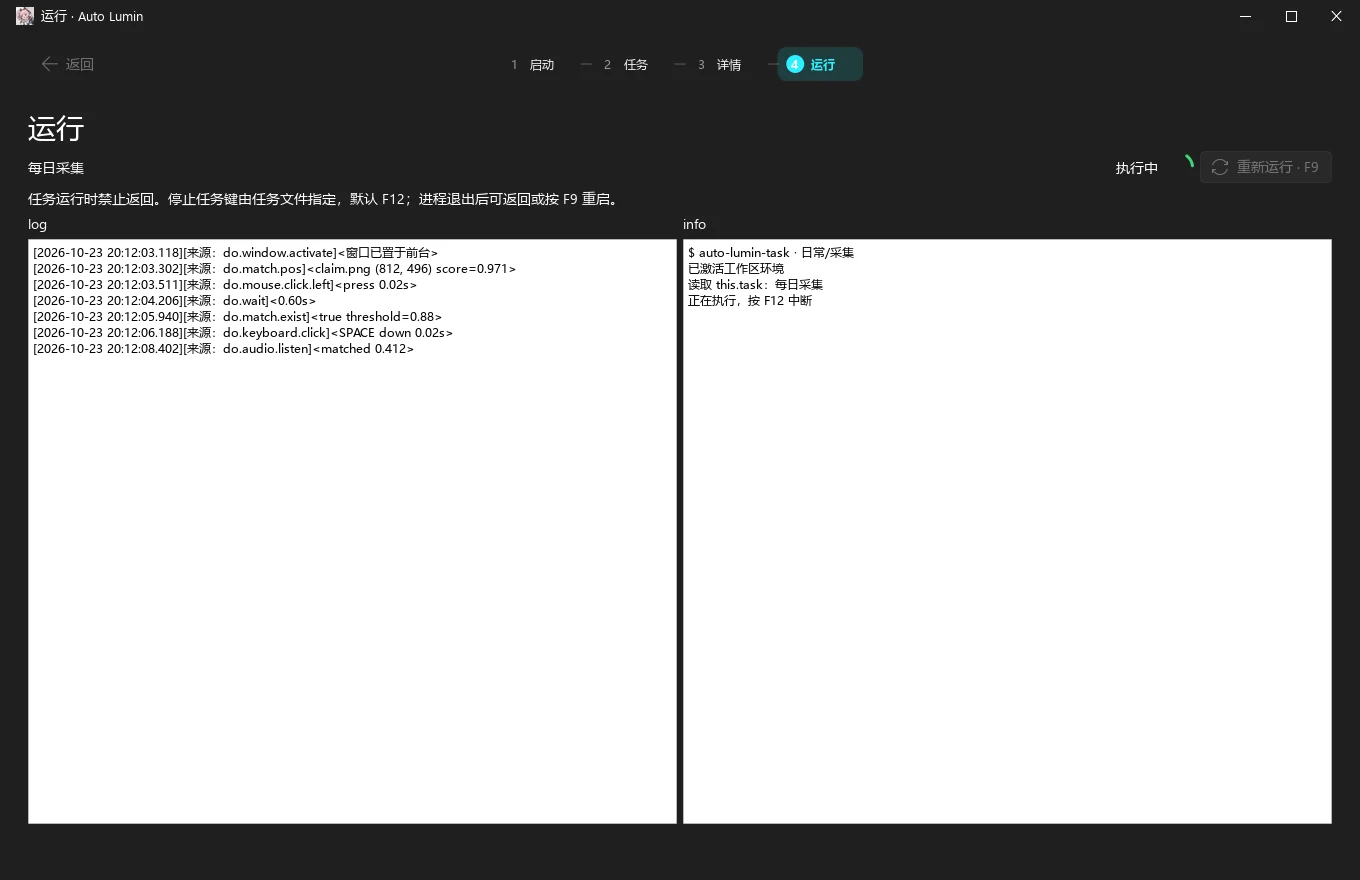
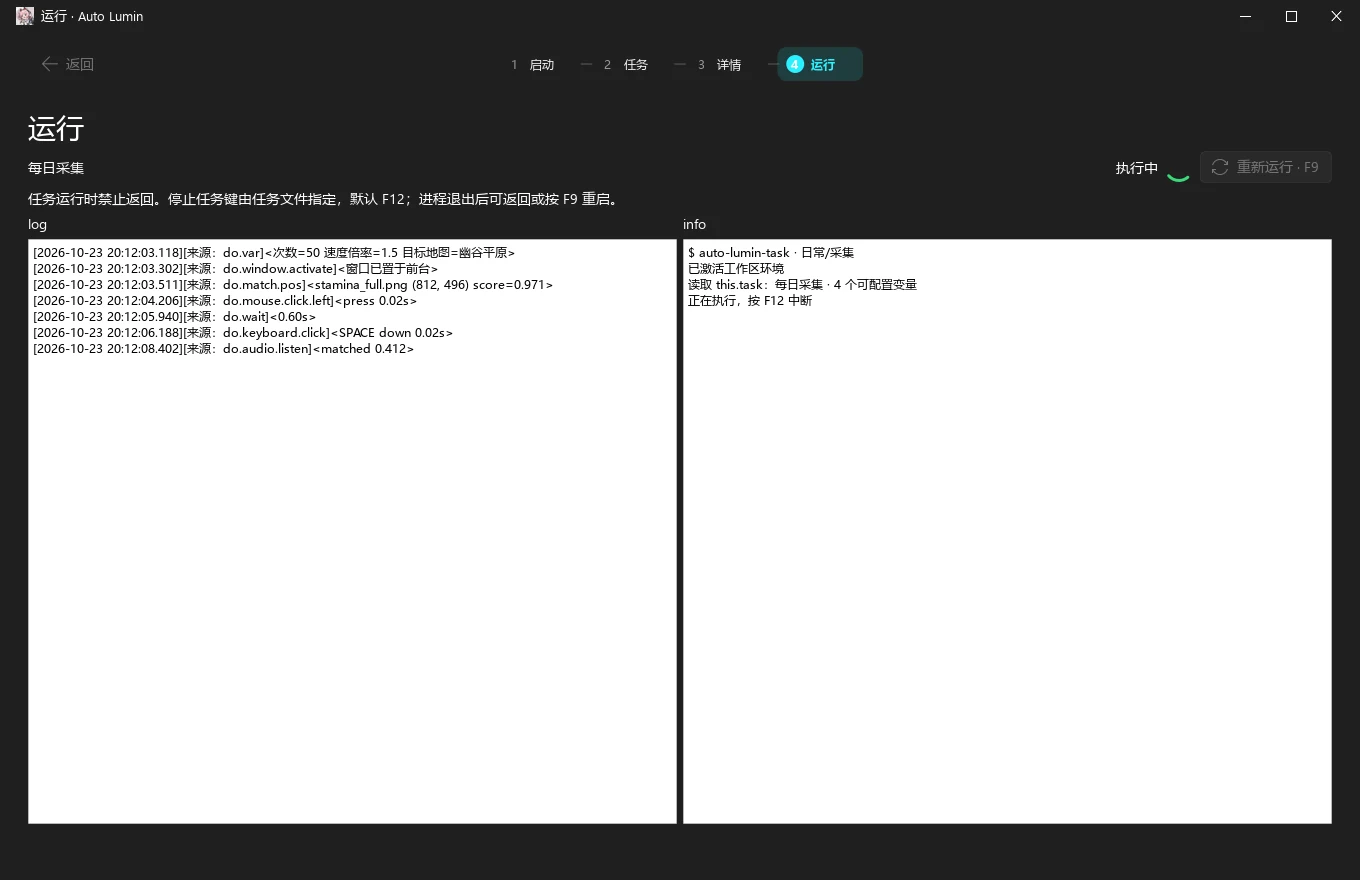
docs: 站点更新到启动器 1.1
- 首页、能力卡片、部署说明与 FAQ 同步 1.1：新增任务变量配置与
  任务包一键导入，详情页改为折叠卡片布局
- this.task 示例补 var 节，run.py 示例改用 do.var() 读取配置值
- 用 1.1 启动器重新生成四页明暗主题截图，替换 1.0 旧图
- 修复画廊视图快速切换时标题与截图错配的异步竞态

Changed region(s): [[0.1853, 0.2761, 0.4015, 0.3682], [0.6176, 0.3068, 0.6794, 0.3375]]

diff --git a/index.html b/index.html
@@ -536,11 +536,11 @@ footer{border-top:1px solid var(--line);padding:56px 0 34px;background:color-mix
     <div class="grid-overlay" aria-hidden="true"></div>
     <div class="wrap hero-grid">
       <div class="hero-copy reveal">
-        <span class="pill"><i class="dot"></i> v1.0 · 启动器已发布</span>
+        <span class="pill"><i class="dot"></i> v1.1 · 变量配置与任务包导入</span>
         <h1>把重复的操作，<br>交给 <span class="grad">Auto Lumin</span>。</h1>
         <p class="sub">
           绑定游戏窗口，识别画面与声音，回放键盘鼠标动作。
-          写一次脚本，之后交给启动器：<strong>环境自检、任务分类、日志与中断</strong>都替你处理好。
+          写一次脚本，之后交给启动器：<strong>环境自检、变量配置、任务包导入与中断</strong>都替你处理好。
         </p>
         <div class="hero-cta">
           <a class="btn btn-primary" href="https://github.com/sueenthear/Auto-Lumin/releases/latest" target="_blank" rel="noopener">
@@ -565,18 +565,18 @@ footer{border-top:1px solid var(--line);padding:56px 0 34px;background:color-mix
           <div class="window-bar">
             <span class="dots" aria-hidden="true"><i></i><i></i><i></i></span>
             <span class="name">AutoLumin.exe</span>
-            <span class="tag">v1.0</span>
+            <span class="tag">v1.1</span>
           </div>
-          <img id="heroShot" src="assets/screenshots/start-dark.webp" width="1360" height="880" alt="Auto Lumin 启动器启动页：环境检查全部通过">
+          <img id="heroShot" src="assets/screenshots/start-dark.webp" width="1360" height="880" alt="Auto Lumin 启动器启动页：六项必做检查全部通过">
         </div>
-        <p class="hero-note">启动页 · 六项环境检查，全部通过后才可进入任务</p>
+        <p class="hero-note">启动页 · 六项必做检查全通过，7-Zip 快捷导入可选</p>
       </div>
     </div>
 
     <div class="wrap" style="margin-top:64px">
       <div class="stats reveal">
         <div class="stat"><b>04</b><span>启动 / 任务 / 详情 / 运行，顺序推进</span></div>
-        <div class="stat"><b>06</b><span>项环境自检，缺一项就不放行</span></div>
+        <div class="stat"><b>06</b><span>项必做自检，缺一项就不放行</span></div>
         <div class="stat"><b>F12</b><span>全局中断，随时终止脚本</span></div>
       </div>
     </div>
@@ -614,7 +614,17 @@ footer{border-top:1px solid var(--line);padding:56px 0 34px;background:color-mix
         <article class="card reveal">
           <div class="ico"><svg viewBox="0 0 24 24" fill="none" stroke="currentColor" stroke-width="1.7" aria-hidden="true"><path d="M4 7h16M4 12h10M4 17h13" stroke-linecap="round"/><circle cx="19" cy="17" r="2.2"/></svg></div>
           <h3>任务启动器</h3>
-          <p>递归扫描 <code>Task/</code> 下所有 <code>this.task</code>，分类、搜索、按修改时间排序，一键进入详情与运行。</p>
+          <p>递归扫描 <code>Task/</code> 下所有 <code>this.task</code>，分类、搜索、按修改时间排序；拖入或选择 <code>.zip</code> / <code>.7z</code> / <code>.rar</code> 任务包，检查通过后一键导入。</p>
+        </article>
+        <article class="card reveal">
+          <div class="ico"><svg viewBox="0 0 24 24" fill="none" stroke="currentColor" stroke-width="1.7" aria-hidden="true"><path d="M12 3v10m0 0 3.6-3.6M12 13 8.4 9.4" stroke-linecap="round" stroke-linejoin="round"/><path d="M4.5 15v3.5A2.5 2.5 0 0 0 7 21h10a2.5 2.5 0 0 0 2.5-2.5V15" stroke-linecap="round"/></svg></div>
+          <h3>任务包一键导入</h3>
+          <p>把打包好的任务拖进任务页或点「选择任务包」，<code>.zip</code> / <code>.7z</code> / <code>.rar</code> 都会先校验 <code>this.task</code> 与路径再导入，不覆盖已有任务。</p>
+        </article>
+        <article class="card reveal">
+          <div class="ico"><svg viewBox="0 0 24 24" fill="none" stroke="currentColor" stroke-width="1.7" aria-hidden="true"><path d="M5 7h14M5 12h14M5 17h9" stroke-linecap="round"/><circle cx="8" cy="7" r="1.8"/><circle cx="16" cy="12" r="1.8"/></svg></div>
+          <h3>任务变量配置</h3>
+          <p><code>this.task</code> 里声明 <code>var</code>，详情页自动生成数字、开关与文本控件，运行前写回文件；脚本用 <code>do.var()</code> 读取同一份值。</p>
         </article>
         <article class="card reveal">
           <div class="ico"><svg viewBox="0 0 24 24" fill="none" stroke="currentColor" stroke-width="1.7" aria-hidden="true"><path d="M12 3v9" stroke-linecap="round"/><path d="M7 6.5a8 8 0 1 0 10 0" stroke-linecap="round"/></svg></div>
@@ -631,7 +641,7 @@ footer{border-top:1px solid var(--line);padding:56px 0 34px;background:color-mix
       <div class="section-head reveal">
         <p class="eyebrow">Interface</p>
         <h2>四页工作流，克制而清楚</h2>
-        <p class="lede">启动页只做检查，任务页只做选择，详情页确认后才会运行。浅色与深色主题都跟随系统级质感。</p>
+        <p class="lede">启动页只做检查，任务页只管选择与导入，详情页调好变量再运行。浅色与深色主题都跟随系统级质感。</p>
       </div>
 
       <div class="gallery-bar reveal">
@@ -656,7 +666,7 @@ footer{border-top:1px solid var(--line);padding:56px 0 34px;background:color-mix
         <img id="shotImg" src="assets/screenshots/start-dark.webp" width="1360" height="880" alt="Auto Lumin 启动页截图">
       </figure>
       <figcaption class="caption reveal" id="shotCaption">
-        <b>启动</b><span id="shotDesc">Python、uv、工作区依赖、Git Bash、系统版本与管理员权限逐项检查；通过后手动进入任务。</span>
+        <b>启动</b><span id="shotDesc">Python、uv、工作区依赖、Git Bash、系统版本与管理员权限逐项必查；7-Zip 快捷导入可选，装不装都能进入任务。</span>
       </figcaption>
     </div>
   </section>
@@ -681,6 +691,7 @@ footer{border-top:1px solid var(--line);padding:56px 0 34px;background:color-mix
               <div><span>Git for Windows</span><b>含 Git Bash</b></div>
               <div><span>Windows</span><b>Build ≥ 20348</b></div>
               <div><span>权限</span><b>管理员</b></div>
+              <div><span>7-Zip（可选）</span><b>任务包导入</b></div>
             </div>
             <a class="btn btn-ghost" style="width:100%;margin-top:20px" href="https://github.com/sueenthear/Auto-Lumin/releases/latest" target="_blank" rel="noopener">
               <svg viewBox="0 0 24 24" fill="none" stroke="currentColor" stroke-width="1.9" aria-hidden="true"><path d="M12 3v12m0 0 4.5-4.5M12 15l-4.5-4.5M4 20h16" stroke-linecap="round" stroke-linejoin="round"/></svg>
@@ -721,7 +732,7 @@ cd Auto-Lumin</code></pre>
 
           <li class="step reveal">
             <h3>放入启动器并运行</h3>
-            <p>把 <code class="mono">AutoLumin.exe</code> 放到工作区根目录，双击启动。程序会请求管理员权限，六项检查全部通过后点击“进入任务”。</p>
+            <p>把 <code class="mono">AutoLumin.exe</code> 放到工作区根目录，双击启动。程序会请求管理员权限，六项必做检查全部通过后点击“进入任务”；用启动页的「一键安装 7-Zip」还能解锁任务包快捷导入。</p>
             <div class="code">
               <div class="code-head"><span class="dots" aria-hidden="true"><i></i><i></i><i></i></span><span class="lang">目录结构</span><button class="copy" type="button" data-copy="code-tree">复制</button></div>
               <pre><code id="code-tree">Auto-Lumin/
@@ -777,6 +788,7 @@ cd Auto-Lumin</code></pre>
             <div><dt><code>description</code></dt><dd>文字说明，可省略；用于搜索与详情页展示。</dd></div>
             <div><dt><code>run_target</code></dt><dd>相对于 <code>this.task</code> 的 Python 文件，默认 <code>run.py</code>。</dd></div>
             <div><dt><code>description_image</code></dt><dd>可选说明图，只支持 <code>.png</code>，留空表示无图。</dd></div>
+            <div><dt><code>var</code></dt><dd>可配置变量：<code>value</code> 给默认值，<code>type</code> 选 <code>int</code> / <code>float</code> / <code>string</code> / <code>bool</code>，<code>description</code> 显示在详情页。</dd></div>
             <div><dt><code>editor</code> / <code>version</code></dt><dd>作者与版本，显示在任务卡片右侧。</dd></div>
           </dl>
 
@@ -798,9 +810,14 @@ cd Auto-Lumin</code></pre>
   <span class="k">"title"</span>: <span class="s">"每日采集"</span>,
   <span class="k">"description"</span>: <span class="s">"按固定路线完成每日采集。"</span>,
   <span class="k">"editor"</span>: <span class="s">"your-name"</span>,
-  <span class="k">"version"</span>: <span class="s">"1.0"</span>,
+  <span class="k">"version"</span>: <span class="s">"1.1"</span>,
   <span class="k">"run_target"</span>: <span class="s">"run.py"</span>,
-  <span class="k">"description_image"</span>: <span class="s">"说明.png"</span>
+  <span class="k">"description_image"</span>: <span class="s">"说明.png"</span>,
+  <span class="k">"var"</span>: {
+    <span class="k">"value"</span>: { <span class="k">"times"</span>: <span class="n">50</span>, <span class="k">"speed"</span>: <span class="n">1.5</span>, <span class="k">"debug"</span>: <span class="k">false</span> },
+    <span class="k">"type"</span>: { <span class="k">"times"</span>: <span class="s">"int"</span>, <span class="k">"speed"</span>: <span class="s">"float"</span>, <span class="k">"debug"</span>: <span class="s">"bool"</span> },
+    <span class="k">"description"</span>: { <span class="k">"times"</span>: <span class="s">"采集轮次"</span>, <span class="k">"speed"</span>: <span class="s">"速度倍率"</span> }
+  }
 }</code></pre>
 <pre class="panel-run"><code id="code-run"><span class="k">from</span> script_core <span class="k">import</span> Core
 
@@ -808,9 +825,13 @@ do = Core(<span class="s">"Lumin.exe"</span>, timeout=<span class="n">10</span>)
 do.thisfile                          <span class="c"># 工作目录切到脚本所在目录</span>
 do.window.activate()                 <span class="c"># 恢复最小化并置于前台</span>
 
-<span class="k">if</span> do.match.exist(<span class="s">"claim.png"</span>, threshold=<span class="n">0.9</span>):
-    do.mouse.click.left              <span class="c"># 属性访问即执行</span>
-    do.wait(<span class="n">0.6</span>)
+times = do.var(<span class="s">"times"</span>, <span class="n">50</span>)              <span class="c"># 读取详情页里配置的值</span>
+speed = do.var(<span class="s">"speed"</span>, <span class="n">1.5</span>, <span class="s">"速度倍率"</span>, type=<span class="s">"float"</span>)
+
+<span class="k">for</span> _ <span class="k">in</span> <span class="k">range</span>(times):
+    <span class="k">if</span> do.match.exist(<span class="s">"claim.png"</span>, threshold=<span class="n">0.9</span>):
+        do.mouse.click.left          <span class="c"># 属性访问即执行</span>
+        do.wait(<span class="n">0.6</span> <span class="k">/</span> speed)
 
 actions = do.steps.load(<span class="s">"actions.stepscript"</span>)
 do.steps.start(actions)
@@ -894,6 +915,14 @@ do.audio.listen.start()              <span class="c"># 只监听目标进程</sp
           <div class="ans">可以加入 QQ 群 1108948355 获取现成脚本，也可以按上面的结构自己写。每个任务只是一个文件夹：<code>this.task</code> + <code>run.py</code>。</div>
         </details>
         <details class="qa">
+          <summary>拿到别人打包的任务，怎么装进来？<span class="plus" aria-hidden="true"></span></summary>
+          <div class="ans">在任务页把 <code>.zip</code>、<code>.7z</code> 或 <code>.rar</code> 拖进来，或点「选择任务包」。启动器会先校验包内的 <code>this.task</code> 与文件路径，通过后再导入到 <code>Task/未分类</code>，不会覆盖已有任务。RAR 需要完整版 7-Zip，可在启动页一键安装；以管理员身份运行时拖放可能被 Windows 拦截，改用按钮即可。</div>
+        </details>
+        <details class="qa">
+          <summary>任务里的次数、地图这些参数在哪里改？<span class="plus" aria-hidden="true"></span></summary>
+          <div class="ans">详情页的「任务配置」会按 <code>this.task</code> 里声明的 <code>var</code> 生成数字、开关与文本控件，改完点「保存」写回文件；直接点运行也会自动保存。脚本侧用 <code>do.var("times", 50)</code> 读到同一个值。</div>
+        </details>
+        <details class="qa">
           <summary>日志太多，能关掉调试输出吗？<span class="plus" aria-hidden="true"></span></summary>
           <div class="ans">详情页勾选“运行时不输出用于开发调试的 log”即可隐藏 log 面板，只保留普通输出与错误信息；重新运行会沿用本次选择。</div>
         </details>
@@ -920,7 +949,7 @@ do.audio.listen.start()              <span class="c"># 只监听目标进程</sp
       <h4>项目</h4>
       <a href="https://github.com/sueenthear/Auto-Lumin" target="_blank" rel="noopener">GitHub 仓库</a>
       <a href="https://github.com/sueenthear/Auto-Lumin/releases/latest" target="_blank" rel="noopener">最新 Release</a>
-      <a href="https://github.com/sueenthear/Auto-Lumin/releases/tag/Launcher_v1.0" target="_blank" rel="noopener">Launcher v1.0</a>
+      <a href="https://github.com/sueenthear/Auto-Lumin/releases/tag/Launcher_v1.1" target="_blank" rel="noopener">Launcher v1.1</a>
     </div>
     <div class="footer-col">
       <h4>文档</h4>
@@ -1009,22 +1038,22 @@ do.audio.listen.start()              <span class="c"># 只监听目标进程</sp
       dark: "assets/screenshots/start-dark.webp",
       light: "assets/screenshots/start-light.webp",
       label: "启动",
-      desc: "Python、uv、工作区依赖、Git Bash、系统版本与管理员权限逐项检查；通过后手动进入任务。",
-      alt: "Auto Lumin 启动页：六项环境检查全部通过"
+      desc: "Python、uv、工作区依赖、Git Bash、系统版本与管理员权限逐项必查；7-Zip 快捷导入可选，装不装都能进入任务。",
+      alt: "Auto Lumin 启动页：六项必做检查全部通过，7-Zip 快捷导入就绪"
     },
     tasks: {
       dark: "assets/screenshots/tasks-dark.webp",
       light: "assets/screenshots/tasks-light.webp",
       label: "任务",
-      desc: "递归扫描 Task 下任意层级的 this.task，支持搜索、分类与按修改时间排序，勾选后即时生效。",
-      alt: "Auto Lumin 任务页：任务列表、搜索与排序"
+      desc: "递归扫描 Task 下任意层级的 this.task，支持搜索、分类与按修改时间排序；顶部拖入 .zip / .7z / .rar 任务包即可导入。",
+      alt: "Auto Lumin 任务页：任务列表、搜索排序与任务包快捷导入"
     },
     detail: {
       dark: "assets/screenshots/detail-dark.webp",
       light: "assets/screenshots/detail-light.webp",
       label: "详情",
-      desc: "确认任务说明、版本与说明图，选择运行选项后再启动；任务无法运行时会在页面内说明原因。",
-      alt: "Auto Lumin 任务详情页：任务说明与运行选项"
+      desc: "任务说明、任务配置与版本拆成折叠卡片；this.task 里声明的 var 会生成数字、开关与文本控件，保存即写回文件，图片可点击放大。",
+      alt: "Auto Lumin 任务详情页：折叠卡片与任务变量配置控件"
     },
     run: {
       dark: "assets/screenshots/run-dark.webp",
@@ -1035,6 +1064,7 @@ do.audio.listen.start()              <span class="c"># 只监听目标进程</sp
     }
   };
   var currentView = "start";
+  var shotToken = 0;
   var shotImg = document.getElementById("shotImg");
   var shotNow = document.getElementById("shotNow");
   var shotDesc = document.getElementById("shotDesc");
@@ -1046,21 +1076,26 @@ do.audio.listen.start()              <span class="c"># 只监听目标进程</sp
   function renderShot() {
     var shot = shots[currentView];
     var src = shot[shotTheme];
+    // 文案先同步更新，图片异步换；用序号丢弃过期的加载结果，避免标题与画面错配。
+    shotNow.textContent = shot.label + " · " + themeLabel(shotTheme);
+    shotLabel.textContent = shot.label;
+    shotDesc.textContent = shot.desc;
     if (shotImg.getAttribute("src") === src) return;
+    var token = ++shotToken;
     shotImg.classList.add("swapping");
     var next = new Image();
     next.onload = function () {
+      if (token !== shotToken) return;
       shotImg.src = src;
       shotImg.alt = shot.alt;
       requestAnimationFrame(function () { shotImg.classList.remove("swapping"); });
       window.setTimeout(function () { shotImg.classList.remove("swapping"); }, 900);
     };
-    next.onerror = function () { shotImg.classList.remove("swapping"); };
+    next.onerror = function () {
+      if (token === shotToken) shotImg.classList.remove("swapping");
+    };
     next.src = src;
     if (next.complete) next.onload();
-    shotNow.textContent = shot.label + " · " + themeLabel(shotTheme);
-    shotLabel.textContent = shot.label;
-    shotDesc.textContent = shot.desc;
   }
 
   function selectView(view) {
